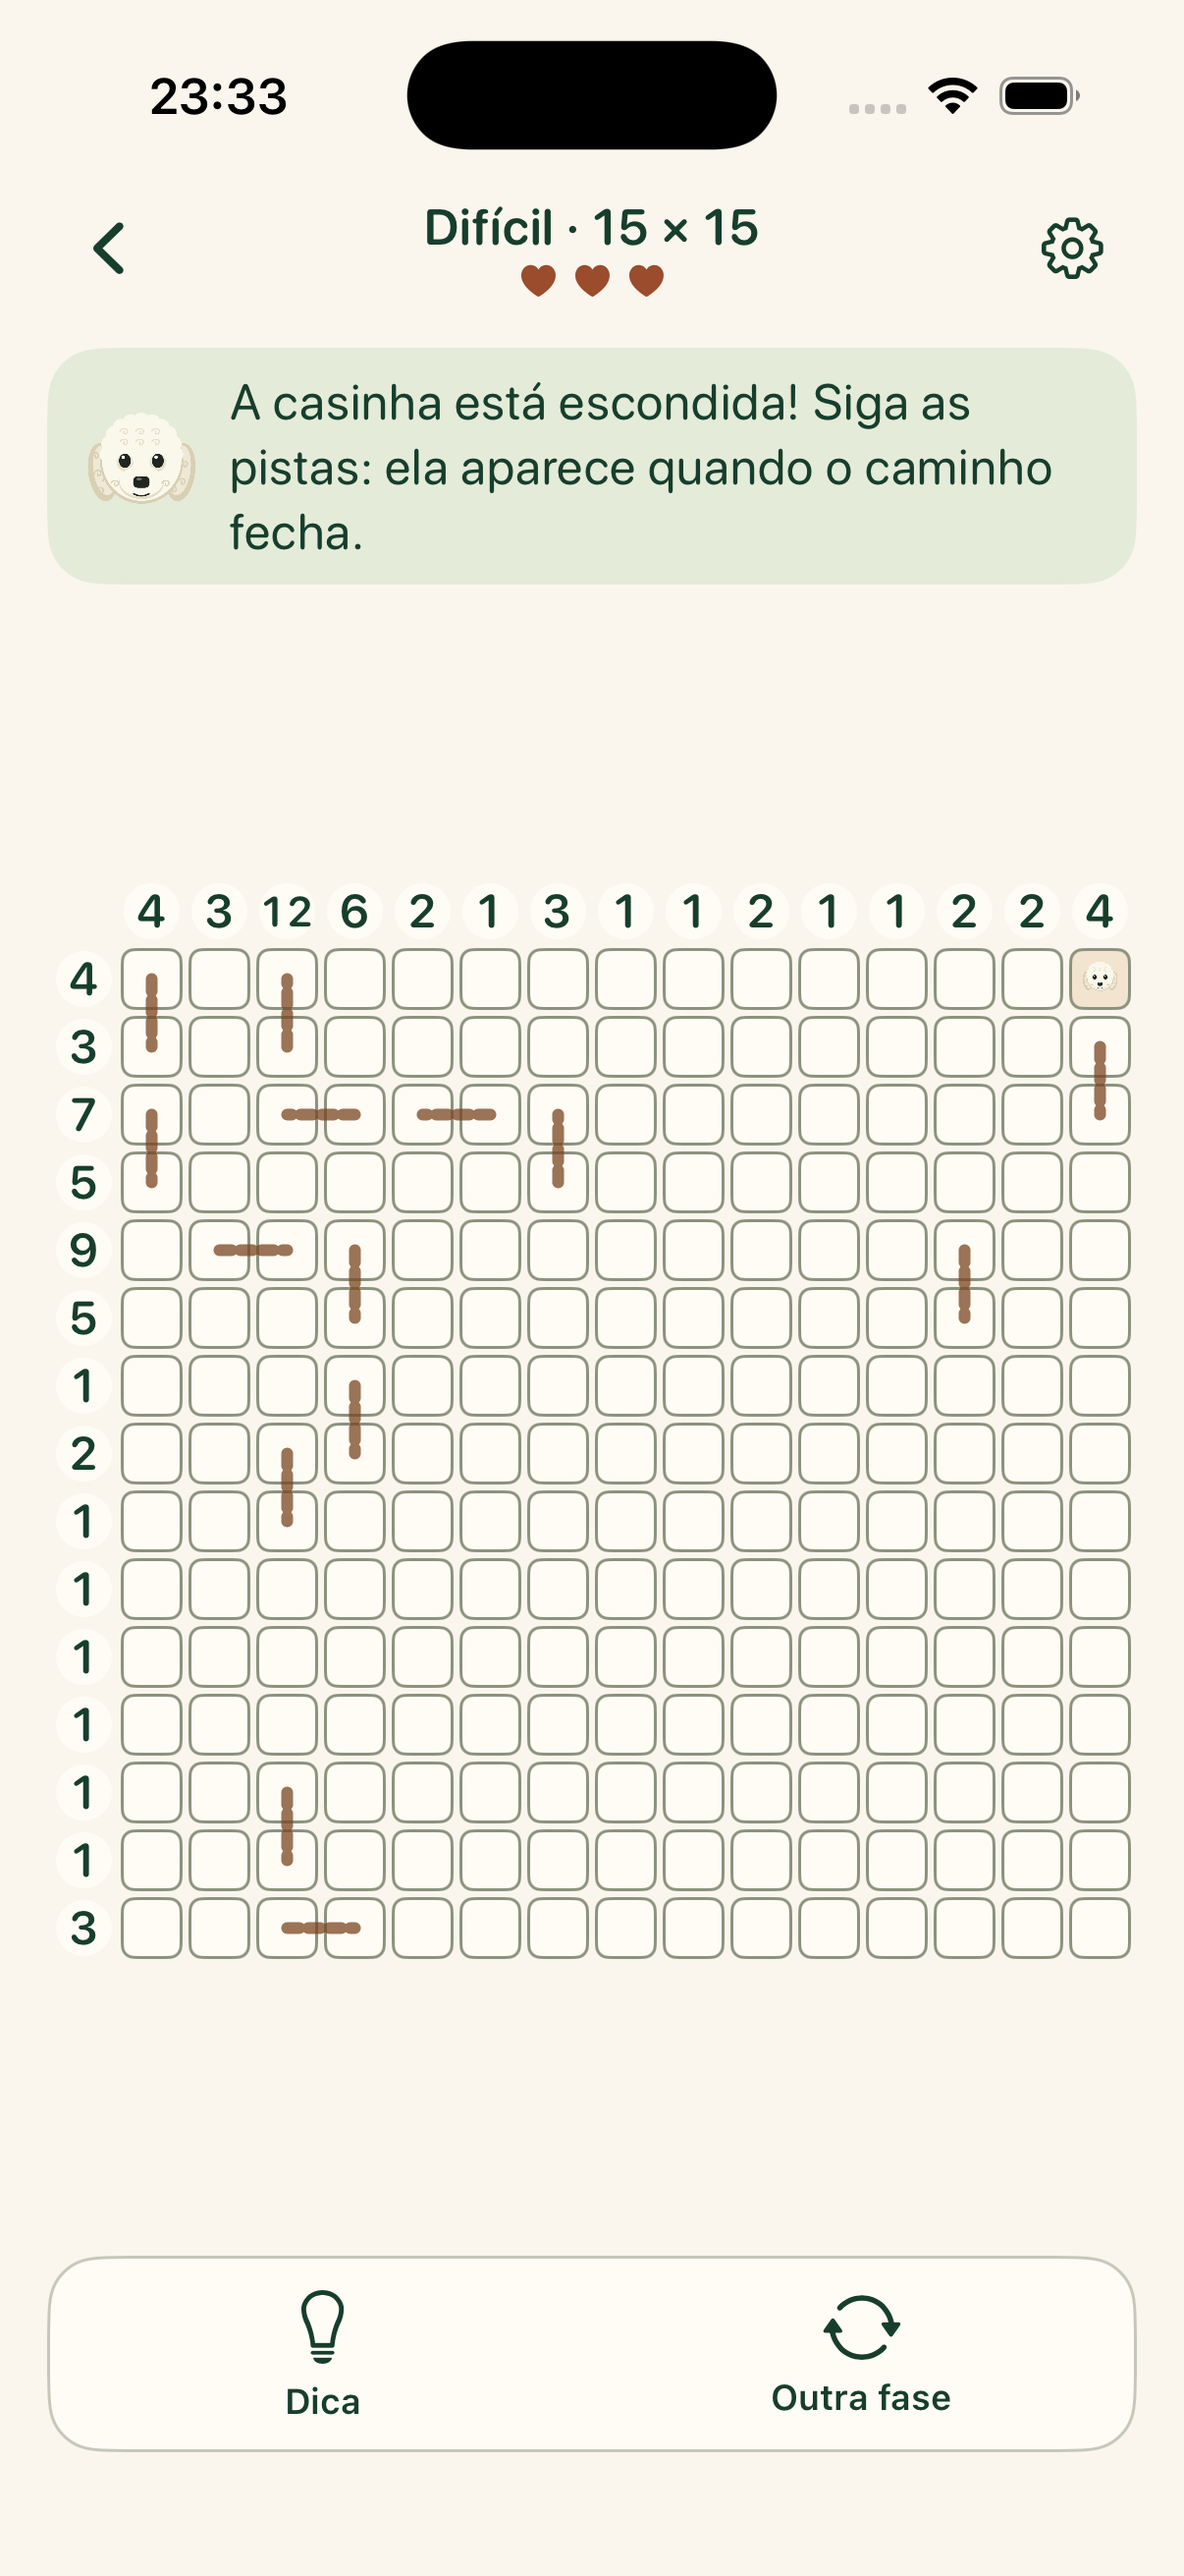
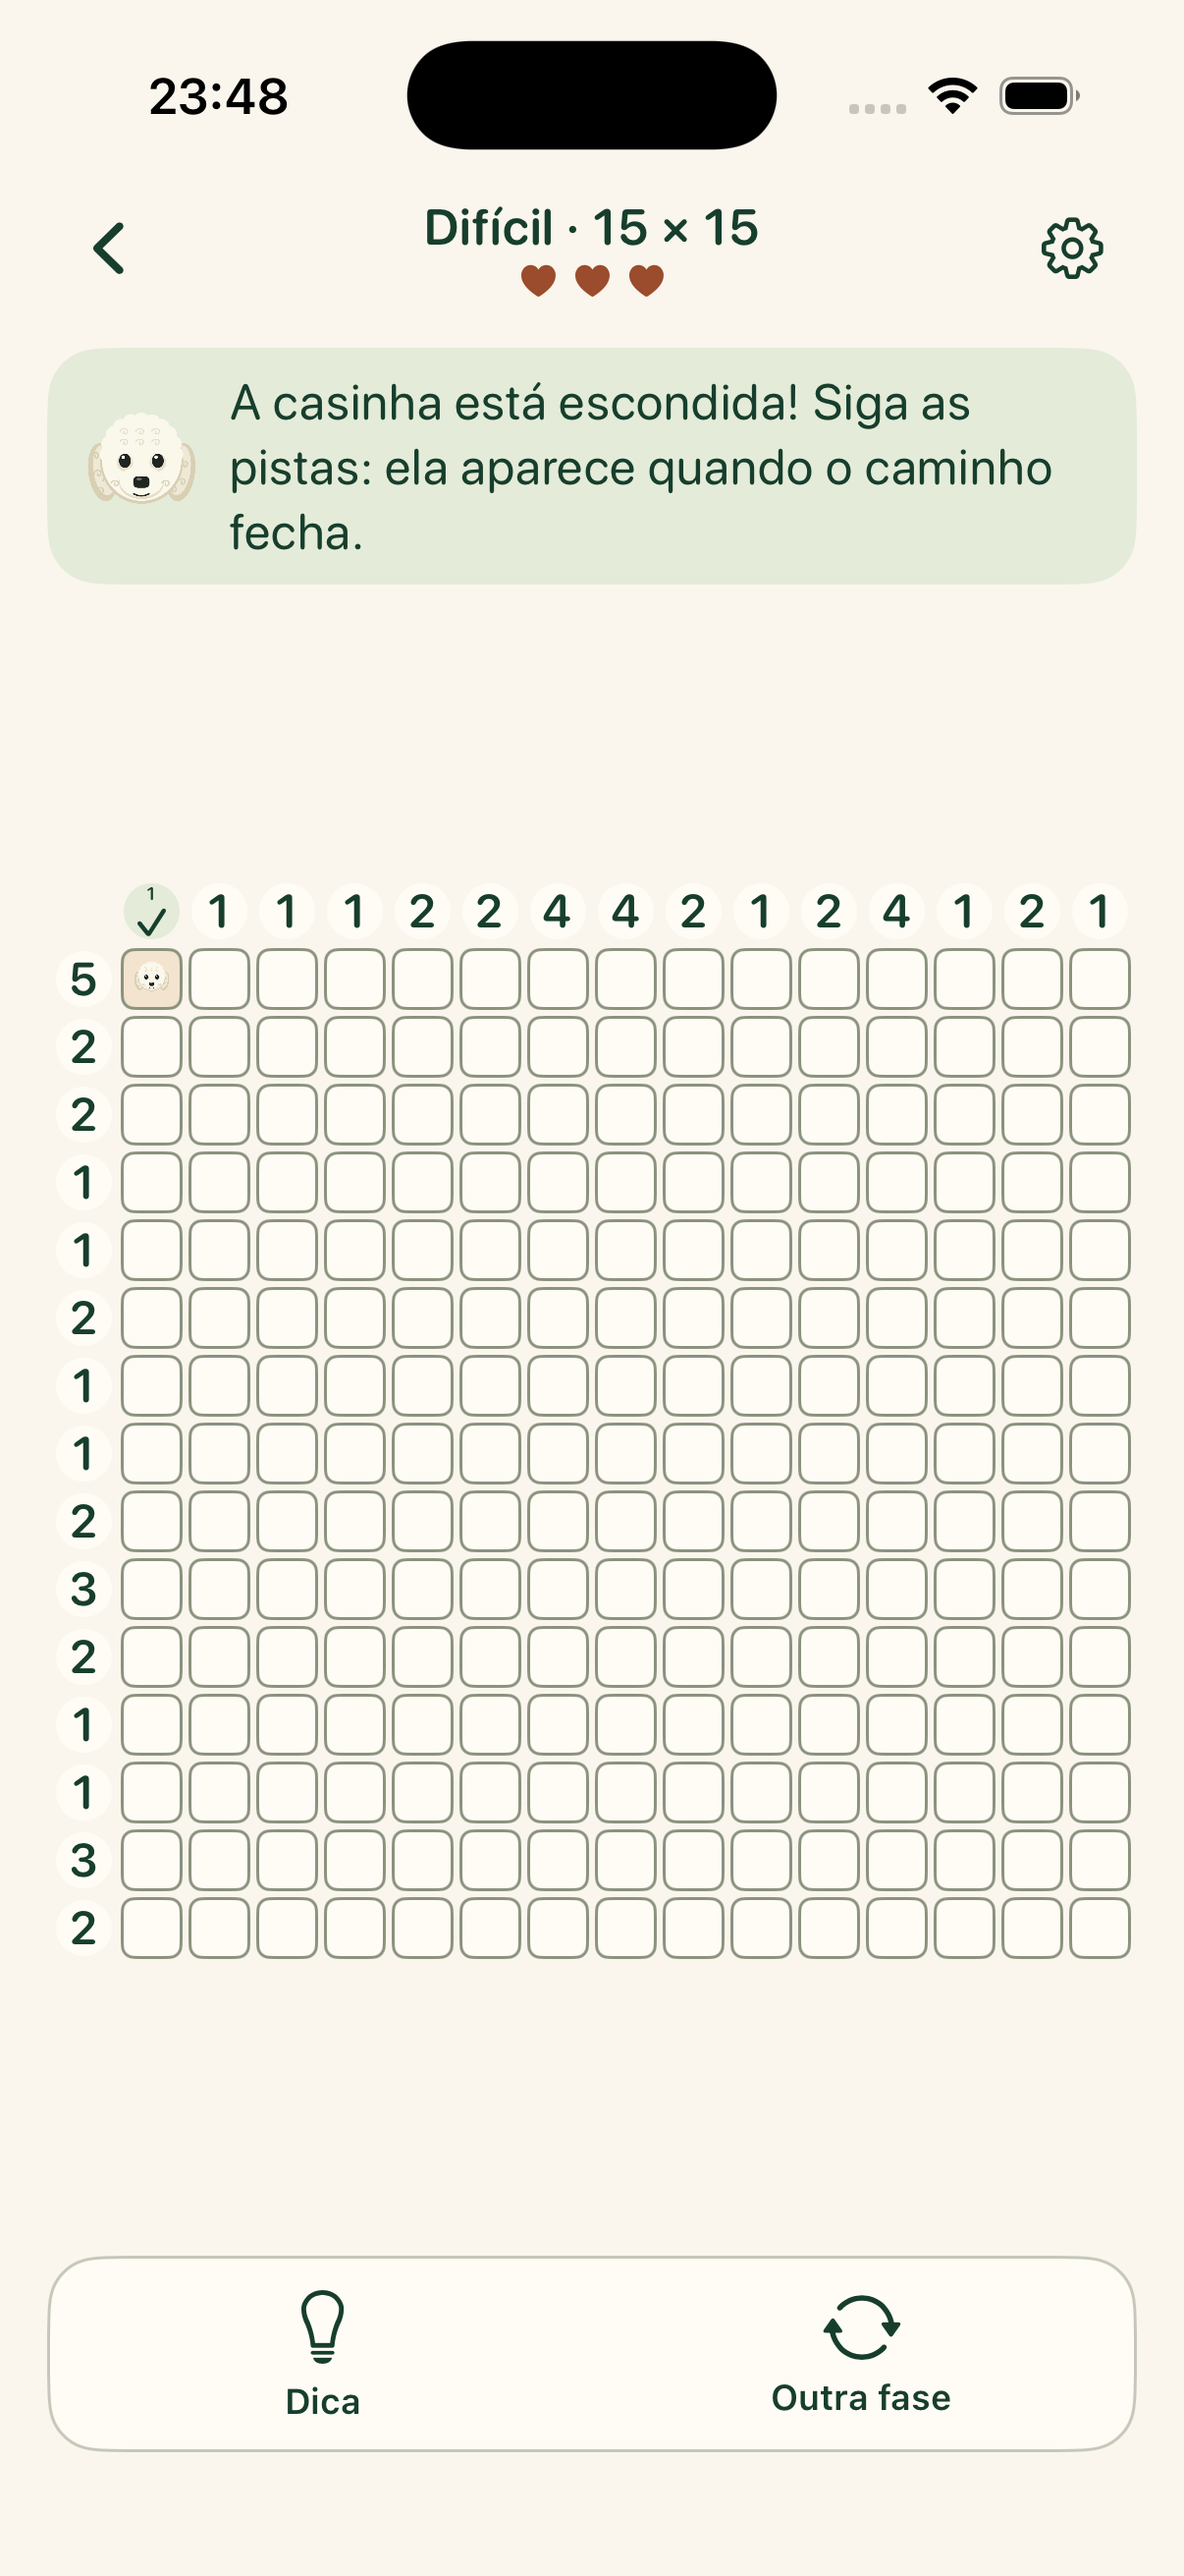
feat: no pre-drawn pieces on Dificil and Especialista
Big grids now use short, compact routes (about 31-40 cells on 15x15 and
40-56 on 20x20) that still cross every row and column; logic finishes
them alone, lines stay in one piece, and generation drops to about
0.02 s and 0.09 s. Reserves regenerated.

diff --git a/Sources/PuzzleCore/FallbackCatalog.swift b/Sources/PuzzleCore/FallbackCatalog.swift
@@ -26,14 +26,14 @@ public enum FallbackCatalog {
             reserve(#"{"columns":[3,1,2,4,1,1,2],"generatorVersion":1,"goal":{"col":6,"row":5},"hiddenGoal":true,"obstacles":[],"puzzleID":"reserve-walk-v1-medium-2","rows":[1,1,3,2,1,2,4],"schemaVersion":2,"seed":1002,"start":{"col":0,"row":0}}"#),
         ],
         .hard: [
-            reserve(#"{"columns":[4,3,12,6,2,1,3,1,1,2,1,1,2,2,4],"generatorVersion":1,"givenEdges":[{"a":{"col":2,"row":7},"b":{"col":2,"row":8}},{"a":{"col":1,"row":4},"b":{"col":2,"row":4}},{"a":{"col":3,"row":2},"b":{"col":2,"row":2}},{"a":{"col":12,"row":4},"b":{"col":12,"row":5}},{"a":{"col":0,"row":0},"b":{"col":0,"row":1}},{"a":{"col":2,"row":1},"b":{"col":2,"row":0}},{"a":{"col":14,"row":1},"b":{"col":14,"row":2}},{"a":{"col":6,"row":3},"b":{"col":6,"row":2}},{"a":{"col":3,"row":6},"b":{"col":3,"row":7}},{"a":{"col":5,"row":2},"b":{"col":4,"row":2}},{"a":{"col":3,"row":4},"b":{"col":3,"row":5}},{"a":{"col":0,"row":2},"b":{"col":0,"row":3}},{"a":{"col":2,"row":14},"b":{"col":3,"row":14}},{"a":{"col":2,"row":12},"b":{"col":2,"row":13}}],"goal":{"col":4,"row":14},"hiddenGoal":true,"obstacles":[],"puzzleID":"reserve-walk-v1-hard-0","rows":[4,3,7,5,9,5,1,2,1,1,1,1,1,1,3],"schemaVersion":2,"seed":1000,"start":{"col":14,"row":0}}"#),
-            reserve(#"{"columns":[5,2,3,2,8,1,1,1,6,2,4,2,3,2,4],"generatorVersion":1,"givenEdges":[{"a":{"col":10,"row":8},"b":{"col":10,"row":7}},{"a":{"col":0,"row":0},"b":{"col":0,"row":1}},{"a":{"col":6,"row":14},"b":{"col":7,"row":14}},{"a":{"col":10,"row":11},"b":{"col":10,"row":10}},{"a":{"col":8,"row":12},"b":{"col":8,"row":11}},{"a":{"col":8,"row":14},"b":{"col":8,"row":13}},{"a":{"col":8,"row":9},"b":{"col":9,"row":9}},{"a":{"col":12,"row":11},"b":{"col":11,"row":11}},{"a":{"col":4,"row":7},"b":{"col":4,"row":8}},{"a":{"col":13,"row":10},"b":{"col":12,"row":10}}],"goal":{"col":10,"row":10},"hiddenGoal":true,"obstacles":[],"puzzleID":"reserve-walk-v1-hard-1","rows":[2,1,1,1,3,1,2,7,4,4,6,5,2,2,5],"schemaVersion":2,"seed":1001,"start":{"col":1,"row":0}}"#),
-            reserve(#"{"columns":[7,3,6,2,3,1,1,1,4,3,5,6,2,6,3],"generatorVersion":1,"givenEdges":[{"a":{"col":1,"row":7},"b":{"col":1,"row":6}},{"a":{"col":11,"row":7},"b":{"col":11,"row":8}},{"a":{"col":8,"row":5},"b":{"col":8,"row":6}},{"a":{"col":13,"row":14},"b":{"col":12,"row":14}},{"a":{"col":11,"row":11},"b":{"col":10,"row":11}},{"a":{"col":2,"row":3},"b":{"col":2,"row":4}},{"a":{"col":6,"row":9},"b":{"col":5,"row":9}},{"a":{"col":0,"row":6},"b":{"col":0,"row":5}},{"a":{"col":13,"row":8},"b":{"col":13,"row":9}},{"a":{"col":4,"row":9},"b":{"col":4,"row":8}},{"a":{"col":10,"row":9},"b":{"col":9,"row":9}},{"a":{"col":10,"row":10},"b":{"col":10,"row":9}},{"a":{"col":8,"row":9},"b":{"col":7,"row":9}},{"a":{"col":0,"row":4},"b":{"col":0,"row":3}}],"goal":{"col":3,"row":4},"hiddenGoal":true,"obstacles":[],"puzzleID":"reserve-walk-v1-hard-2","rows":[3,2,2,2,5,2,5,6,4,8,2,3,3,2,4],"schemaVersion":2,"seed":1002,"start":{"col":9,"row":4}}"#),
+            reserve(#"{"columns":[1,1,1,1,2,2,4,4,2,1,2,4,1,2,1],"generatorVersion":1,"goal":{"col":14,"row":14},"hiddenGoal":true,"obstacles":[],"puzzleID":"reserve-walk-v1-hard-0","rows":[5,2,2,1,1,2,1,1,2,3,2,1,1,3,2],"schemaVersion":2,"seed":1000,"start":{"col":0,"row":0}}"#),
+            reserve(#"{"columns":[15,2,1,1,1,1,1,1,1,1,1,1,1,1,2],"generatorVersion":1,"goal":{"col":14,"row":1},"hiddenGoal":true,"obstacles":[],"puzzleID":"reserve-walk-v1-hard-1","rows":[15,2,1,1,1,1,1,1,1,1,1,1,1,1,2],"schemaVersion":2,"seed":1001,"start":{"col":1,"row":14}}"#),
+            reserve(#"{"columns":[2,1,1,1,1,1,1,1,1,1,1,1,1,2,15],"generatorVersion":1,"goal":{"col":13,"row":14},"hiddenGoal":true,"obstacles":[],"puzzleID":"reserve-walk-v1-hard-2","rows":[15,2,1,1,1,1,1,1,1,1,1,1,1,1,2],"schemaVersion":2,"seed":1002,"start":{"col":0,"row":1}}"#),
         ],
         .expert: [
-            reserve(#"{"columns":[11,3,6,7,8,2,2,3,4,3,7,3,3,3,2,4,4,2,2,3],"generatorVersion":1,"givenEdges":[{"a":{"col":10,"row":14},"b":{"col":10,"row":15}},{"a":{"col":16,"row":17},"b":{"col":17,"row":17}},{"a":{"col":10,"row":11},"b":{"col":10,"row":10}},{"a":{"col":4,"row":3},"b":{"col":4,"row":2}},{"a":{"col":0,"row":10},"b":{"col":1,"row":10}},{"a":{"col":13,"row":18},"b":{"col":13,"row":19}},{"a":{"col":6,"row":11},"b":{"col":7,"row":11}},{"a":{"col":4,"row":11},"b":{"col":5,"row":11}},{"a":{"col":15,"row":19},"b":{"col":15,"row":18}},{"a":{"col":0,"row":2},"b":{"col":0,"row":3}},{"a":{"col":4,"row":8},"b":{"col":3,"row":8}},{"a":{"col":1,"row":11},"b":{"col":2,"row":11}},{"a":{"col":13,"row":13},"b":{"col":12,"row":13}},{"a":{"col":12,"row":13},"b":{"col":11,"row":13}},{"a":{"col":7,"row":9},"b":{"col":6,"row":9}},{"a":{"col":8,"row":14},"b":{"col":9,"row":14}},{"a":{"col":3,"row":7},"b":{"col":2,"row":7}},{"a":{"col":5,"row":9},"b":{"col":4,"row":9}},{"a":{"col":16,"row":15},"b":{"col":16,"row":14}},{"a":{"col":15,"row":13},"b":{"col":14,"row":13}},{"a":{"col":9,"row":10},"b":{"col":9,"row":9}}],"goal":{"col":18,"row":19},"hiddenGoal":true,"obstacles":[],"puzzleID":"reserve-walk-v1-expert-0","rows":[5,2,2,3,2,3,2,3,3,7,4,7,7,6,5,3,1,7,5,5],"schemaVersion":2,"seed":1000,"start":{"col":17,"row":15}}"#),
-            reserve(#"{"columns":[4,5,4,4,1,3,3,3,2,6,3,2,3,6,3,10,11,4,2,3],"generatorVersion":1,"givenEdges":[{"a":{"col":15,"row":8},"b":{"col":16,"row":8}},{"a":{"col":5,"row":9},"b":{"col":4,"row":9}},{"a":{"col":12,"row":5},"b":{"col":12,"row":6}},{"a":{"col":8,"row":8},"b":{"col":7,"row":8}},{"a":{"col":8,"row":16},"b":{"col":9,"row":16}},{"a":{"col":0,"row":6},"b":{"col":1,"row":6}},{"a":{"col":0,"row":8},"b":{"col":0,"row":7}},{"a":{"col":18,"row":19},"b":{"col":19,"row":19}},{"a":{"col":9,"row":19},"b":{"col":10,"row":19}},{"a":{"col":16,"row":15},"b":{"col":15,"row":15}},{"a":{"col":1,"row":4},"b":{"col":0,"row":4}}],"goal":{"col":0,"row":4},"hiddenGoal":true,"obstacles":[],"puzzleID":"reserve-walk-v1-expert-1","rows":[3,3,2,5,5,5,7,4,9,6,1,1,1,1,3,5,4,4,2,11],"schemaVersion":2,"seed":1001,"start":{"col":5,"row":14}}"#),
-            reserve(#"{"columns":[18,4,2,3,2,2,2,1,1,1,1,2,2,3,3,3,2,6,2,10],"generatorVersion":1,"givenEdges":[{"a":{"col":4,"row":1},"b":{"col":5,"row":1}},{"a":{"col":15,"row":5},"b":{"col":15,"row":4}},{"a":{"col":0,"row":13},"b":{"col":0,"row":12}},{"a":{"col":0,"row":1},"b":{"col":1,"row":1}},{"a":{"col":2,"row":19},"b":{"col":1,"row":19}},{"a":{"col":17,"row":5},"b":{"col":16,"row":5}},{"a":{"col":1,"row":0},"b":{"col":2,"row":0}},{"a":{"col":6,"row":1},"b":{"col":7,"row":1}}],"goal":{"col":12,"row":2},"hiddenGoal":true,"obstacles":[],"puzzleID":"reserve-walk-v1-expert-2","rows":[12,12,4,4,4,5,3,3,3,4,1,1,1,1,1,1,1,1,2,6],"schemaVersion":2,"seed":1002,"start":{"col":6,"row":19}}"#),
+            reserve(#"{"columns":[1,2,1,3,1,1,1,5,1,1,2,3,1,1,1,1,9,1,1,2],"generatorVersion":1,"goal":{"col":19,"row":0},"hiddenGoal":true,"obstacles":[],"puzzleID":"reserve-walk-v1-expert-0","rows":[1,4,1,1,1,1,1,1,1,6,1,2,4,1,1,1,5,1,3,2],"schemaVersion":2,"seed":1000,"start":{"col":0,"row":19}}"#),
+            reserve(#"{"columns":[1,1,1,1,1,5,5,5,4,2,1,3,1,1,1,4,1,1,2,2],"generatorVersion":1,"goal":{"col":0,"row":19},"hiddenGoal":true,"obstacles":[],"puzzleID":"reserve-walk-v1-expert-1","rows":[1,2,4,1,1,5,1,3,2,1,1,2,2,2,1,1,2,2,1,8],"schemaVersion":2,"seed":1001,"start":{"col":19,"row":0}}"#),
+            reserve(#"{"columns":[2,1,1,1,1,1,1,1,1,1,1,1,1,1,1,1,1,1,2,20],"generatorVersion":1,"goal":{"col":0,"row":1},"hiddenGoal":true,"obstacles":[],"puzzleID":"reserve-walk-v1-expert-2","rows":[20,2,1,1,1,1,1,1,1,1,1,1,1,1,1,1,1,1,1,2],"schemaVersion":2,"seed":1002,"start":{"col":18,"row":19}}"#),
         ],
     ]
     public static func walk(for difficulty: Difficulty, variation: UInt64, id: String?) -> Puzzle? {

diff --git a/Sources/PuzzleCore/WalkGenerator.swift b/Sources/PuzzleCore/WalkGenerator.swift
@@ -35,7 +35,7 @@ public enum WalkGenerator {
             return Int((state >> 33) % UInt64(max(1, bound)))
         }
     }
-    public static func generate(_ difficulty: Difficulty, variation: UInt64, id: String? = nil, candidateLimit: Int = 40,
+    public static func generate(_ difficulty: Difficulty, variation: UInt64, id: String? = nil, candidateLimit: Int = 200,
                                 isCancelled: () -> Bool = { false }) -> GenerationReport {
         var rng = Random(state: variation &* 0x9E3779B97F4A7C15 &+ UInt64(difficulty.size))
         var attempted = 0, logicRejected = 0
@@ -54,7 +54,8 @@ public enum WalkGenerator {
             let puzzleID = id ?? "walk-v\(version)-\(difficulty.rawValue)-\(variation)-\(index)"
             var given: [GivenEdge] = []
             // Reveal route pieces where logic stalls, up to a budget that keeps grids interesting.
-            let budget = max(1, n*n/9)
+            // Difícil and Especialista get none: their compact routes are solved by logic alone.
+            let budget = n >= 15 ? 0 : max(1, n*n/9)
             let perRound = max(1, n/6)
             while given.count <= budget {
                 if isCancelled() { return report(.cancelled, nil, attempted, logicRejected) }
@@ -121,8 +122,11 @@ public enum WalkGenerator {
     /// what lets 15×15 and 20×20 be solved without guessing. Also touches every row and column.
     private static func looseRoute(_ n: Int, rng: inout Random) -> [Cell]? {
         let inside = { (c: Cell) in (0..<n).contains(c.row) && (0..<n).contains(c.col) }
-        // Big grids get relatively shorter routes: fewer crossings keep their lines more together.
-        let target = n >= 15 ? n*n*20/100 + rng.next(max(1, n*n*8/100)) : n*n*30/100 + rng.next(max(1, n*n*12/100))
+        // Big grids get relatively short, compact routes: each line's cells stay together, and logic
+        // finishes them without any pre-drawn piece (20×20 about 40–56 cells, 15×15 about 31–40).
+        let target = n >= 20 ? n*n*10/100 + rng.next(max(1, n*n*4/100))
+            : n >= 15 ? n*n*14/100 + rng.next(max(1, n*n*4/100))
+            : n*n*30/100 + rng.next(max(1, n*n*12/100))
         for _ in 0..<60 {
             var route = [Cell(rng.next(n), rng.next(n))]
             var taken: Set<Cell> = [route[0]]

diff --git a/Tests/PuzzleCoreTests/WalkGeneratorTests.swift b/Tests/PuzzleCoreTests/WalkGeneratorTests.swift
@@ -10,6 +10,7 @@ final class WalkGeneratorTests: XCTestCase {
             XCTAssertFalse(p.rows.contains(0), "\(difficulty) rows")
             XCTAssertFalse(p.columns.contains(0), "\(difficulty) columns")
             XCTAssertTrue(p.obstacles.isEmpty)
+            if difficulty.size >= 15 { XCTAssertTrue(p.givenEdges.isEmpty, "No pre-drawn pieces on the big grids") }
             XCTAssertEqual(p.hiddenGoal, difficulty != .easy, "Only Fácil shows the house")
             let route = try XCTUnwrap(PuzzleSolution.route(for: p))
             XCTAssertEqual(route.first, p.start)

diff --git a/README.md b/README.md
@@ -248,3 +248,12 @@ Capturas: [início](docs/validation/design-review/home-difficulties.png) e [Espe
   | Especialista | 2,1 | ~17 | ~0,2 s |
 
   [Exemplo 15×15](docs/validation/design-review/hard-15x15.png).
+
+**Sem trechos tracejados no Difícil e no Especialista.** Nessas grades, os caminhos passaram a ser curtos e compactos: cerca de 31–40 casas no 15×15 e 40–56 no 20×20, ainda passando por todas as linhas e colunas. Assim a lógica fecha a fase sozinha, sem nenhum trecho pré-desenhado, e as casas de cada linha ficam juntas.
+
+| Nível | Pedaços por linha | Tempo (macOS, Release) |
+|---|---|---|
+| Difícil | 1,05 | ~0,02 s |
+| Especialista | 1,05 | ~0,09 s |
+
+O custo é que as pistas dessas grades ficam baixas (muitos 1 e 2), o que deixa o desafio mais parecido com o de achar o caminho numa grade grande e vazia. O Médio raramente revela um trecho.
